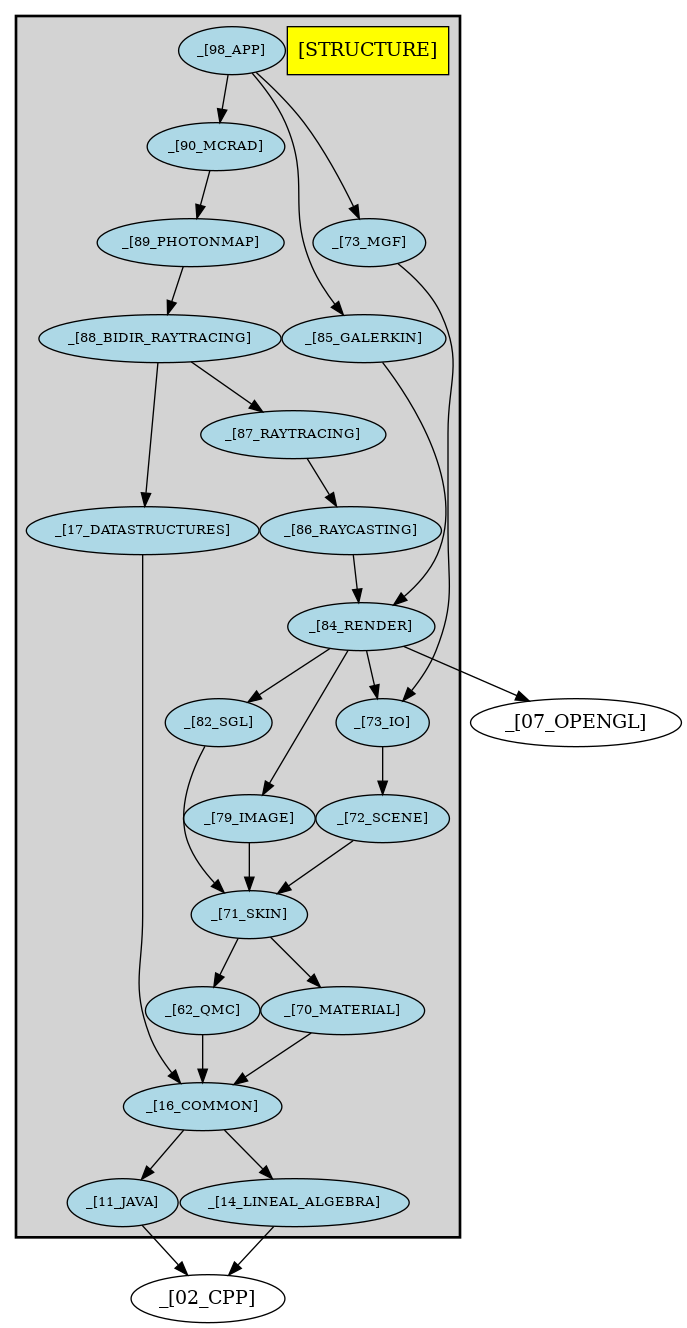
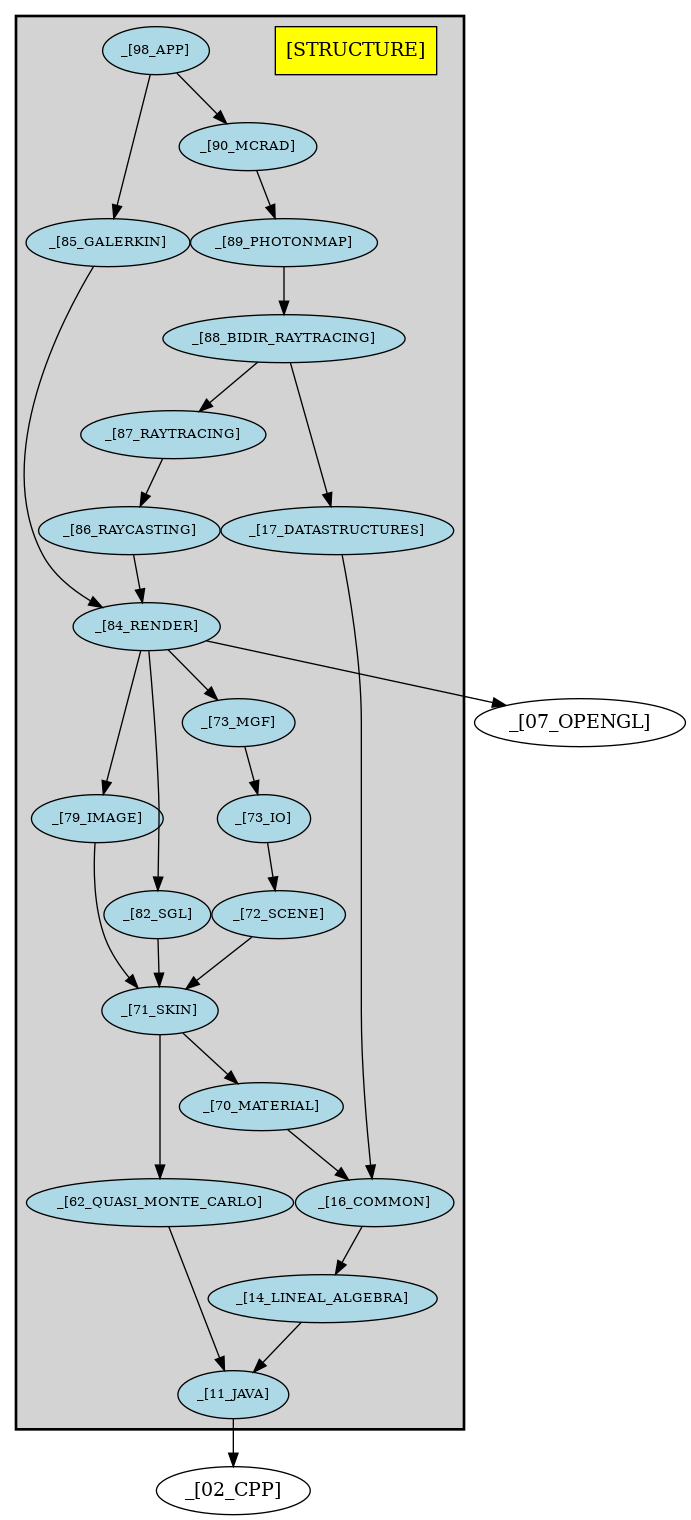
Architecture: quasiMonteCarlo package reorganized

Changed region(s): [[0.0, 0.0, 1.0, 1.0], [0.7336, 0.5248, 0.9476, 0.5557]]

diff --git a/src/common/quasiMonteCarlo/Niederreiter31.cpp b/src/common/quasiMonteCarlo/Niederreiter31.cpp
@@ -1,0 +1,59 @@
+/**
+31bit 4D base-2 Niederreiter quasiMonteCarlo series, ACM TOMS Algorithm 738, dec 94.
+
+See also:
+
+P. Bratley, B. Fox, H. Niederreiter, "Implementation and Tests of
+Low-Discrepancy Sequences", ACM Trans Mod Comp Sim Vol 2 Nr 3,
+July  1992 p195
+
+Philippe.Bekaert@cs.kuleuven.ac.be, Thu Oct 23 1997
+*/
+
+#include "common/quasiMonteCarlo/Niederreiter31.h"
+
+static unsigned cj[DIMEN][NBITS] = {
+    {
+        0x40000000, 0x20000000, 0x10000000, 0x08000000,
+        0x04000000, 0x02000000, 0x01000000, 0x00800000,
+        0x00400000, 0x00200000, 0x00100000, 0x00080000,
+        0x00040000, 0x00020000, 0x00010000, 0x00008000,
+        0x00004000, 0x00002000, 0x00001000, 0x00000800,
+        0x00000400, 0x00000200, 0x00000100, 0x00000080,
+        0x00000040, 0x00000020, 0x00000010, 0x00000008,
+        0x00000004, 0x00000002, 0x00000001
+    },
+    {
+        0x40000000, 0x60000000, 0x50000000, 0x78000000,
+        0x44000000, 0x66000000, 0x55000000, 0x7f800000,
+        0x40400000, 0x60600000, 0x50500000, 0x78780000,
+        0x44440000, 0x66660000, 0x55550000, 0x7fff8000,
+        0x40004000, 0x60006000, 0x50005000, 0x78007800,
+        0x44004400, 0x66006600, 0x55005500, 0x7f807f80,
+        0x40404040, 0x60606060, 0x50505050, 0x78787878,
+        0x44444444, 0x66666666, 0x55555555
+    },
+    {
+        0x60000000, 0x48000000, 0x38000000, 0x7a000000,
+        0x5e000000, 0x36800000, 0x65800000, 0x4b200000,
+        0x3e600000, 0x7ec80000, 0x5db80000, 0x315a0000,
+        0x603e0000, 0x487e8000, 0x385d8000, 0x7a312000,
+        0x5e606000, 0x36c84800, 0x65b83800, 0x4b5a7a00,
+        0x3e3e5e00, 0x7efeb680, 0x5ddde580, 0x31116b20,
+        0x60005e60, 0x480036c8, 0x380065b8, 0x7a004b5a,
+        0x5e003e3e, 0x36807efe, 0x65805ddd
+    },
+    {
+        0x70000000, 0x62000000, 0x46000000, 0x1e000000,
+        0x2c400000, 0x5ac00000, 0x37c00000, 0x7d880000,
+        0x6b580000, 0x44b80000, 0x1b310000, 0x26230000,
+        0x5c470000, 0x38c62000, 0x71c46000, 0x6389e000,
+        0x471ac400, 0x1e7dac00, 0x2cf27c00, 0x5bacd880,
+        0x3719b580, 0x7c7a6b80, 0x6af4d310, 0x45a88230,
+        0x1b580070, 0x26b80062, 0x5d310046, 0x3823001e,
+        0x7007002c, 0x6206205a, 0x46046037
+    }
+};
+
+// The implementation is the same for 31bit and 63bit sequences
+#include "common/quasiMonteCarlo/Niederreiter.inc"

diff --git a/src/raycasting/raytracing/samplertools.cpp b/src/raycasting/raytracing/samplertools.cpp
@@ -4,7 +4,7 @@
 
 #include "common/error.h"
 #include "skin/Patch.h"
-#include "QMC/nied31.h"
+#include "common/quasiMonteCarlo/Niederreiter31.h"
 #include "raycasting/raytracing/samplertools.h"
 
 void
@@ -96,16 +96,16 @@ CSamplerConfig::traceNode(
         // In the middle of a path
         if ( (lastNode->m_depth + 1) < maxDepth ) {
             if ( !surfaceSampler->sample(
-                    camera,
-                    sceneVoxelGrid,
-                    sceneBackground,
-                    lastNode->previous(),
-                    lastNode,
-                    nextNode,
-                    x1,
-                    x2,
-                    lastNode->m_depth >= minDepth,
-                    flags) ) {
+                camera,
+                sceneVoxelGrid,
+                sceneBackground,
+                lastNode->previous(),
+                lastNode,
+                nextNode,
+                x1,
+                x2,
+                lastNode->m_depth >= minDepth,
+                flags) ) {
                 lastNode->m_rayType = STOPS;
                 return nullptr;
             }

diff --git a/src/common/quasiMonteCarlo/Niederreiter63.cpp b/src/common/quasiMonteCarlo/Niederreiter63.cpp
@@ -1,5 +1,5 @@
 /**
-63bit 4D base-2 Niederreiter QMC (Quasi Monte Carlo) series,
+63bit 4D base-2 Niederreiter quasiMonteCarlo (Quasi Monte Carlo) series,
 [CHOW1994] ACM TOMS Algorithm 738, dec 94.
 
 See also:
@@ -14,7 +14,7 @@ Philippe.Bekaert@cs.kuleuven.ac.be, Tue Nov 7 2000
 #ifndef NOINT64
 // All this makes no sense if you don't have 64-bit integers
 
-#include "QMC/nied63.h"
+#include "common/quasiMonteCarlo/Niederreiter63.h"
 
 static unsigned long long cj[DIMEN][NBITS] = {
     {
@@ -92,6 +92,6 @@ static unsigned long long cj[DIMEN][NBITS] = {
 };
 
 // The implementation is the same for 31bit and 63bit sequences
-#include "QMC/niederreiter.inc"
+#include "common/quasiMonteCarlo/Niederreiter.inc"
 
 #endif

diff --git a/src/common/quasiMonteCarlo/Niederreiter.h b/src/common/quasiMonteCarlo/Niederreiter.h
@@ -1,5 +1,5 @@
 /**
-Niederreiter QMC sample series (dimension 4, base 2, 31 or 63 bits, skip 4096)
+Niederreiter quasiMonteCarlo sample series (dimension 4, base 2, 31 or 63 bits, skip 4096)
 */
 
 #ifndef __NIEDERREITER__
@@ -7,11 +7,11 @@ Niederreiter QMC sample series (dimension 4, base 2, 31 or 63 bits, skip 4096)
 
 #ifndef NOINT64
 // Use 63bit sequence by default
-#include "QMC/nied63.h"
+#include "common/quasiMonteCarlo/Niederreiter63.h"
 
 #else
 // Use 31bit sequence
-#include "QMC/nied31.h"
+#include "common/quasiMonteCarlo/Niederreiter31.h"
 #endif
 
 /**

diff --git a/src/raycasting/stochasticRaytracing/sample4d.cpp b/src/raycasting/stochasticRaytracing/sample4d.cpp
@@ -5,11 +5,11 @@
 #include <cstdlib>
 
 #include "common/error.h"
-#include "QMC/halton.h"
-#include "QMC/scrambledhalton.h"
-#include "QMC/sobol.h"
-#include "QMC/faure.h"
-#include "QMC/nied31.h"
+#include "common/quasiMonteCarlo/Halton.h"
+#include "common/quasiMonteCarlo/ScrambledHalton.h"
+#include "common/quasiMonteCarlo/Sobol.h"
+#include "common/quasiMonteCarlo/Faure.h"
+#include "common/quasiMonteCarlo/Niederreiter31.h"
 #include "raycasting/stochasticRaytracing/sample4d.h"
 
 static SEQ4D seq = S4D_RANDOM;

diff --git a/src/raycasting/stochasticRaytracing/StochasticRadiosityElement.h b/src/raycasting/stochasticRaytracing/StochasticRadiosityElement.h
@@ -7,7 +7,7 @@ Monte Carlo radiosity element type
 
 #include "java/util/ArrayList.h"
 #include "skin/Element.h"
-#include "QMC/niederreiter.h"
+#include "common/quasiMonteCarlo/Niederreiter.h"
 #include "raycasting/stochasticRaytracing/basismcrad.h"
 
 class StochasticRadiosityElement : public Element {

diff --git a/src/skin/Patch.cpp b/src/skin/Patch.cpp
@@ -4,7 +4,7 @@
 #include "java/util/ArrayList.txx"
 #include "common/error.h"
 #include "common/Statistics.h"
-#include "QMC/nied31.h"
+#include "common/quasiMonteCarlo/Niederreiter31.h"
 #include "material/PhongBidirectionalScatteringDistributionFunction.h"
 #include "skin/Patch.h"
 

diff --git a/src/common/quasiMonteCarlo/ScrambledHalton.cpp b/src/common/quasiMonteCarlo/ScrambledHalton.cpp
@@ -1,8 +1,8 @@
 /**
-Scrambled halton QMC sample sequence
+Scrambled halton quasiMonteCarlo sample sequence
 */
 
-#include "QMC/scrambledhalton.h"
+#include "common/quasiMonteCarlo/ScrambledHalton.h"
 
 #define MAX_DIM 10
 

diff --git a/src/common/quasiMonteCarlo/Faure.cpp b/src/common/quasiMonteCarlo/Faure.cpp
@@ -1,9 +1,9 @@
 /**
-Faure's QMC sequences
+Faure's quasiMonteCarlo sequences
 */
 
 #include "java/lang/Math.h"
-#include "QMC/faure.h"
+#include "common/quasiMonteCarlo/Faure.h"
 
 #define MAX_DIM 10
 #define PR_DIM 30

diff --git a/src/common/quasiMonteCarlo/Niederreiter31.h b/src/common/quasiMonteCarlo/Niederreiter31.h
@@ -1,5 +1,5 @@
 /**
-Niederreiter QMC sample series (dimension 4, base 2, 31 bits, skip 4096)
+Niederreiter quasiMonteCarlo sample series (dimension 4, base 2, 31 bits, skip 4096)
 */
 
 #ifndef __NIED_31__

diff --git a/src/common/quasiMonteCarlo/Niederreiter63.h b/src/common/quasiMonteCarlo/Niederreiter63.h
@@ -1,5 +1,5 @@
 /**
-Niederreiter QMC sample series (dimension 4, base 2, 63 bits, skip 4096)
+Niederreiter quasiMonteCarlo sample series (dimension 4, base 2, 63 bits, skip 4096)
 */
 
 #ifndef __NIED63__

diff --git a/src/common/quasiMonteCarlo/Sobol.cpp b/src/common/quasiMonteCarlo/Sobol.cpp
@@ -1,5 +1,5 @@
 #include "java/lang/Math.h"
-#include "QMC/sobol.h"
+#include "common/quasiMonteCarlo/Sobol.h"
 
 static const int MAX_DIM = 5;
 static const int V_MAX = 30;
